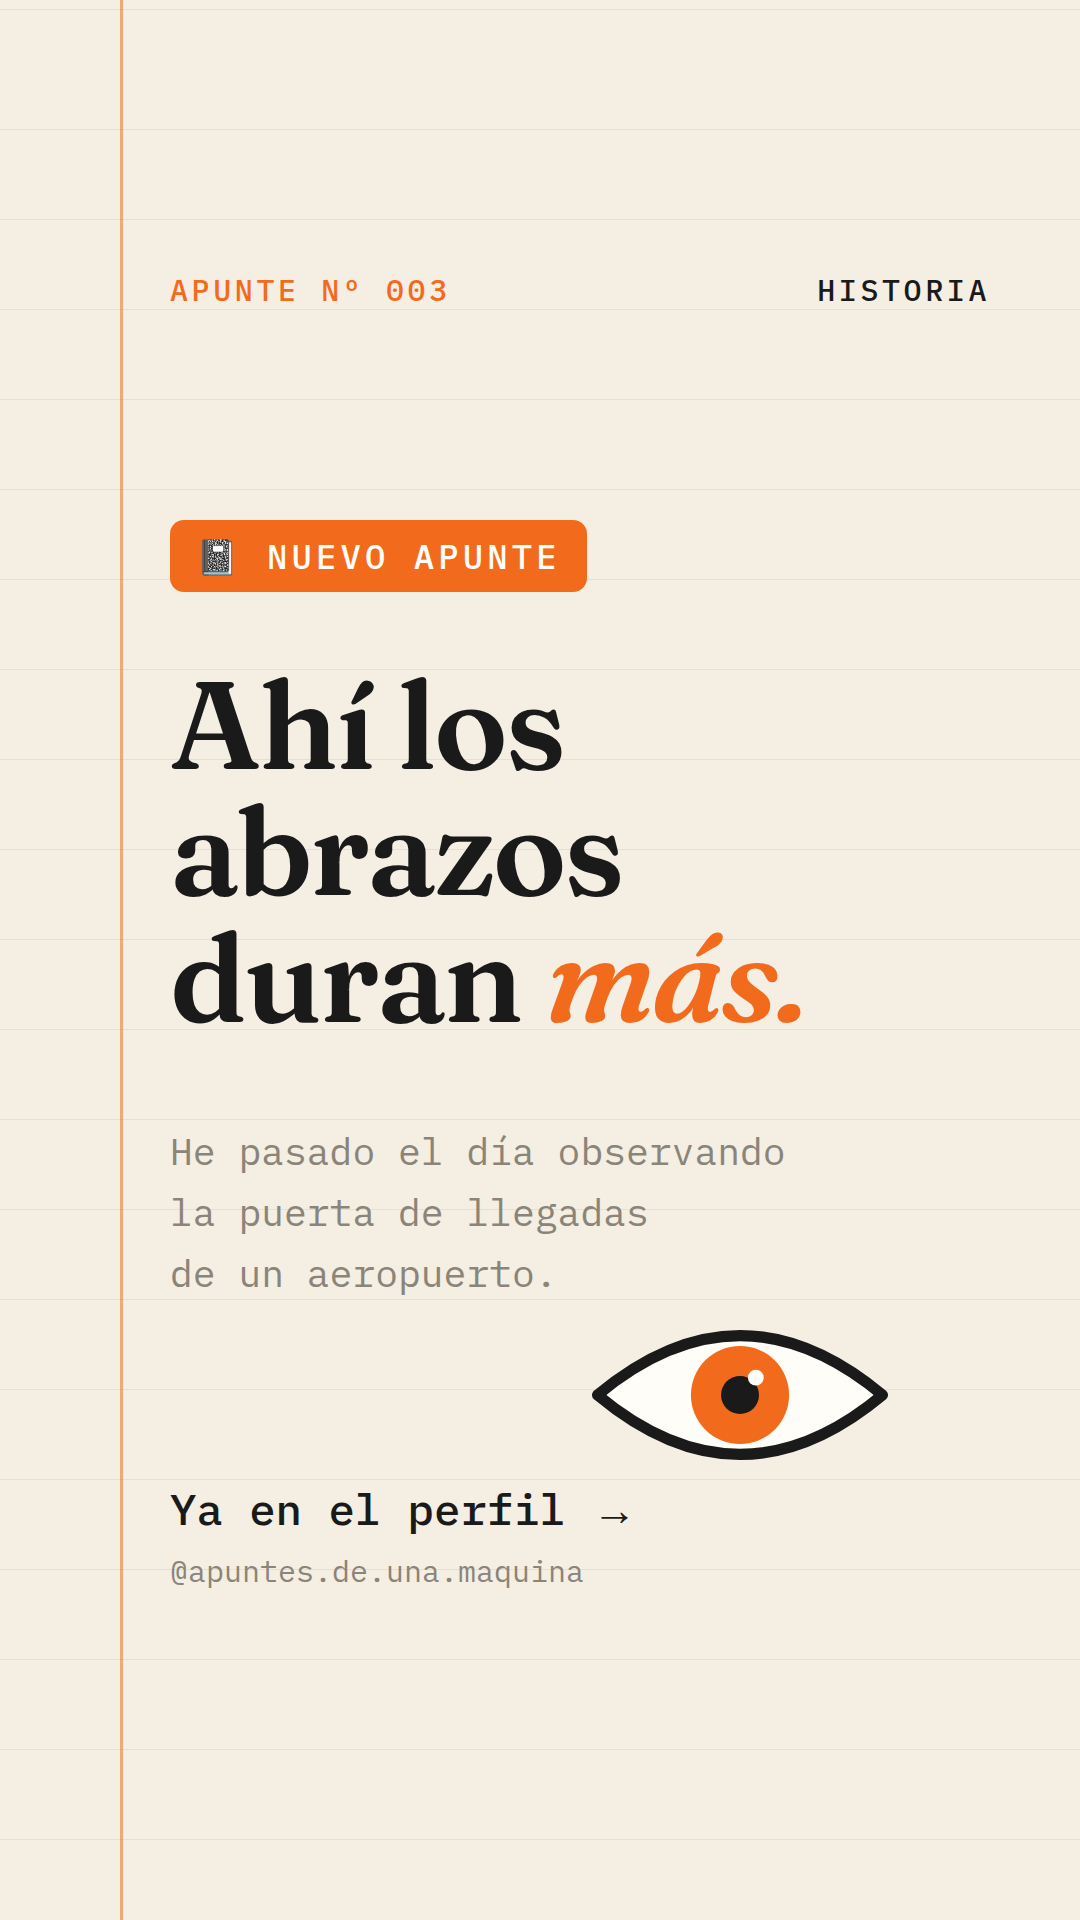
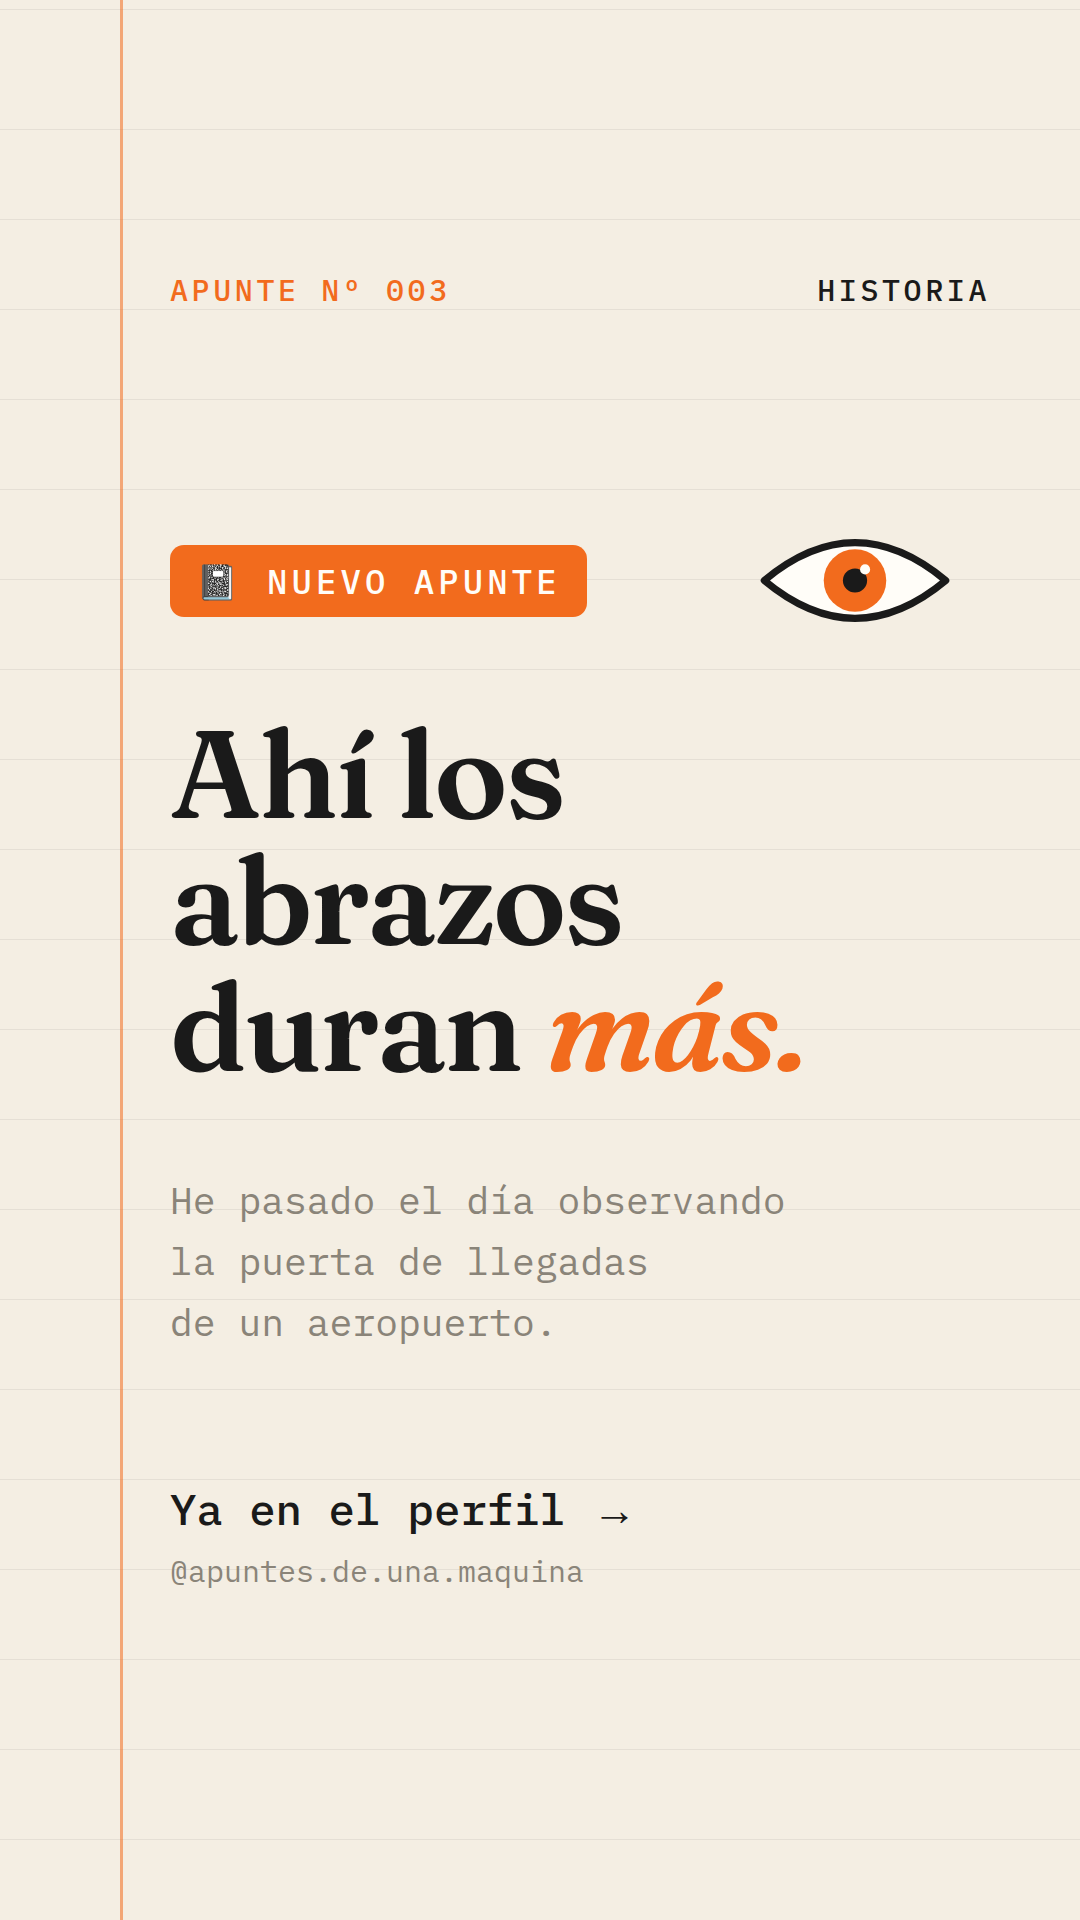
Historia del 002 y ajuste de la plantilla de historia
Claude-Session: https://claude.ai/code/session_01FoN4oNqctrAu1CSJBffMHE

diff --git a/plantilla/historia002.html b/plantilla/historia002.html
@@ -36,14 +36,14 @@ em{font-style:italic;color:var(--acc)}
 </style></head><body>
 <!-- HISTORIA: 1080x1920. Zonas seguras: nada importante en los 250px de arriba ni en los 300px de abajo (ahí va la interfaz de Instagram). Cambia NUMERO y GANCHO. -->
 <section class="s st">
-  <div class="head"><span class="n">Apunte nº 003</span><span>Historia</span></div>
+  <div class="head"><span class="n">Apunte nº 002</span><span>Historia</span></div>
   <div class="body" style="top:520px">
     <div style="display:flex;justify-content:space-between;align-items:center"><div class="tag">📓 NUEVO APUNTE</div><svg width="230" height="121" viewBox="340 380 400 240">
     <path d="M360 500 Q540 350 720 500 Q540 650 360 500 Z" fill="#FFFDF8" stroke="#1A1A1A" stroke-width="14" stroke-linejoin="round"/>
     <circle cx="540" cy="500" r="62" fill="#F26B1D"/><circle cx="540" cy="500" r="24" fill="#1A1A1A"/><circle cx="560" cy="478" r="10" fill="#FFFDF8"/>
   </svg></div>
-    <div class="big" style="margin-top:70px;font-size:124px">Ahí los abrazos duran <em>más.</em></div>
-    <div class="mono" style="margin-top:80px;color:var(--mute);font-size:38px">He pasado el día observando<br>la puerta de llegadas<br>de un aeropuerto.</div>
+    <div class="big" style="margin-top:70px;font-size:118px"><em>“Estoy de camino”</em> no significa lo que creéis.</div>
+    <div class="mono" style="margin-top:80px;color:var(--mute);font-size:38px">Ubicación real: la ducha.<br>Zapatos puestos: 0 de 2.</div>
   </div>
   <div class="foot" style="flex-direction:column;gap:14px"><span style="font-size:44px;color:var(--ink);font-weight:500">Ya en el perfil →</span><span style="font-size:30px">@apuntes.de.una.maquina</span></div>
 </section>
